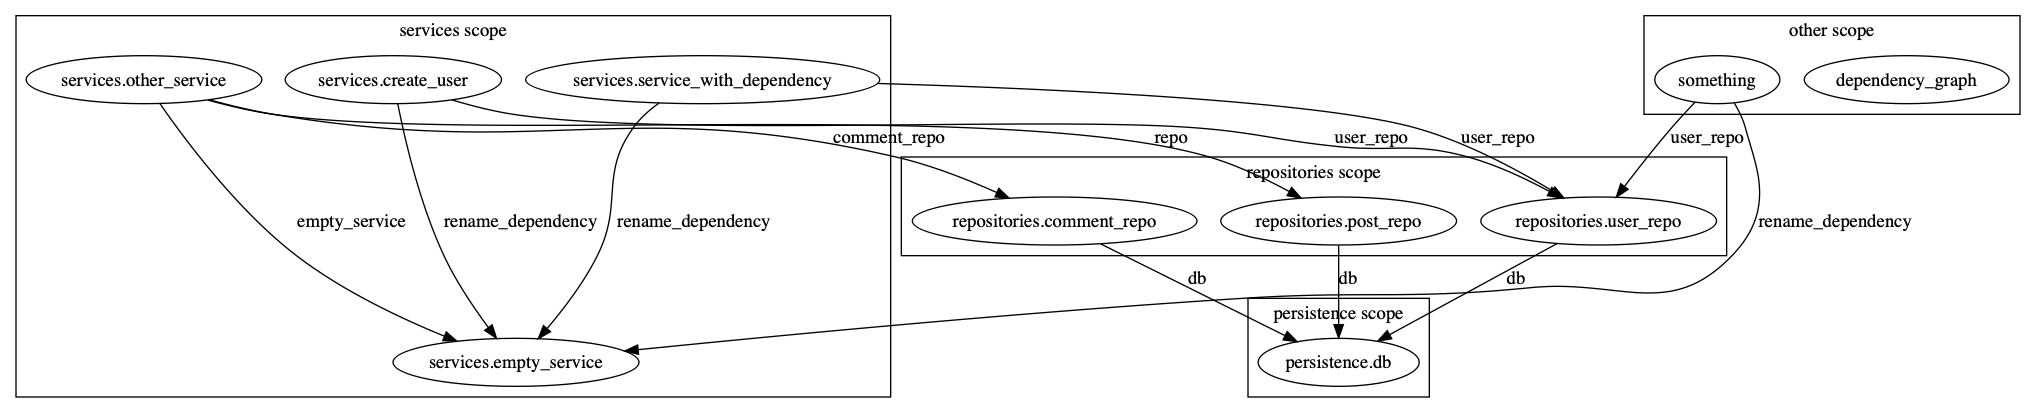
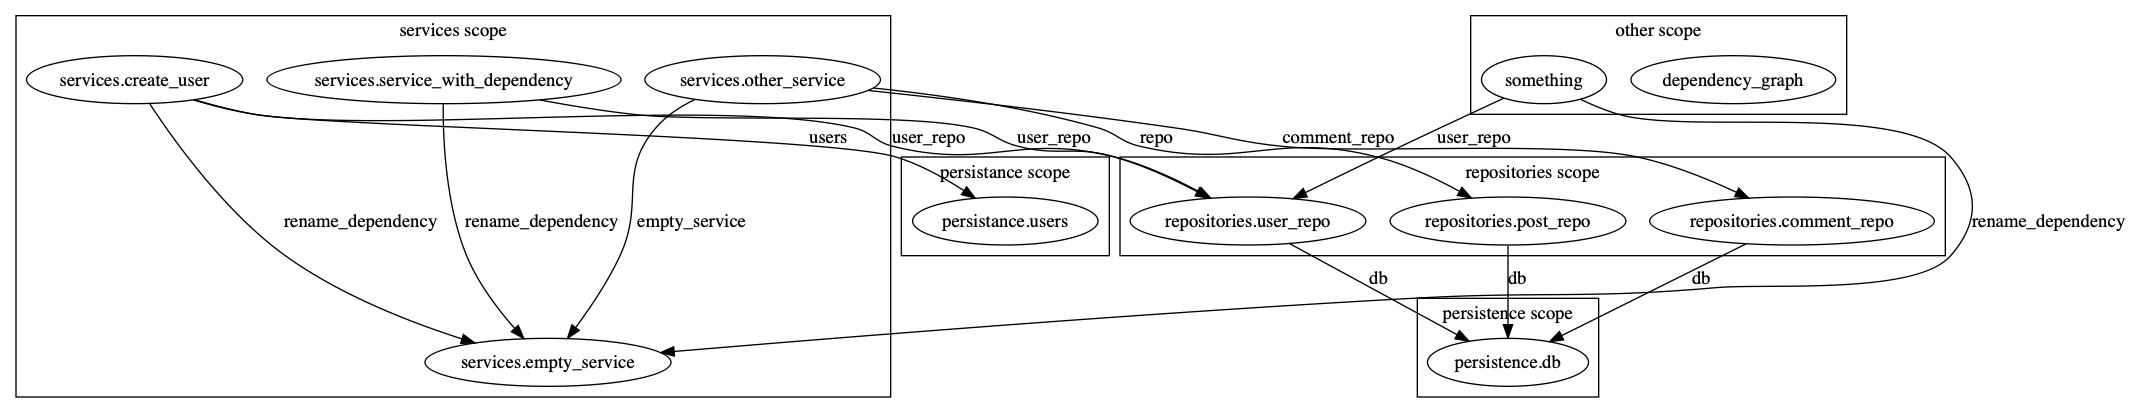
Update example with namespaces containers

diff --git a/examples/standalone/run.rb b/examples/standalone/run.rb
@@ -8,6 +8,11 @@ require 'dry/system/dependency_graph'
 
 App.register(:dependency_graph, Dry::System::DependencyGraph.new(App[:notifications]))
 
+ns = Dry::Container::Namespace.new('persistance') do
+  register('users') { Array.new }
+end
+App.import(ns)
+
 App.finalize!
 p App.keys
 

diff --git a/examples/standalone/lib/services/create_user.rb b/examples/standalone/lib/services/create_user.rb
@@ -4,6 +4,6 @@ require 'import'
 
 module Services
   class CreateUser
-    include Import['repositories.user_repo', rename_dependency: 'services.empty_service']
+    include Import['persistance.users', 'repositories.user_repo', rename_dependency: 'services.empty_service']
   end
 end
